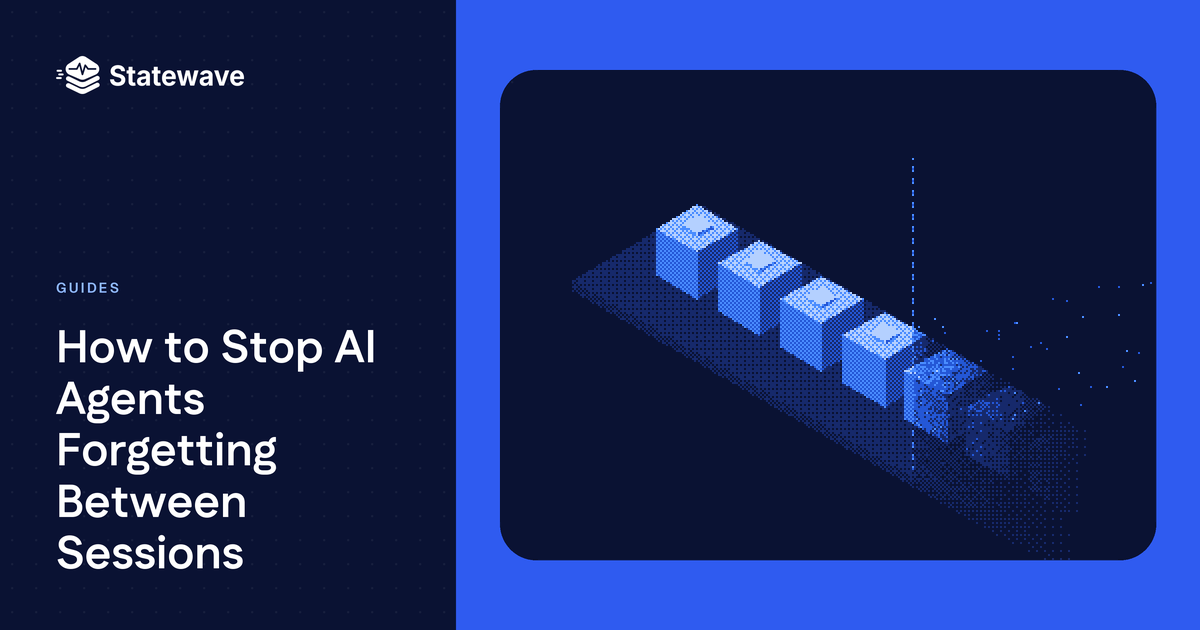
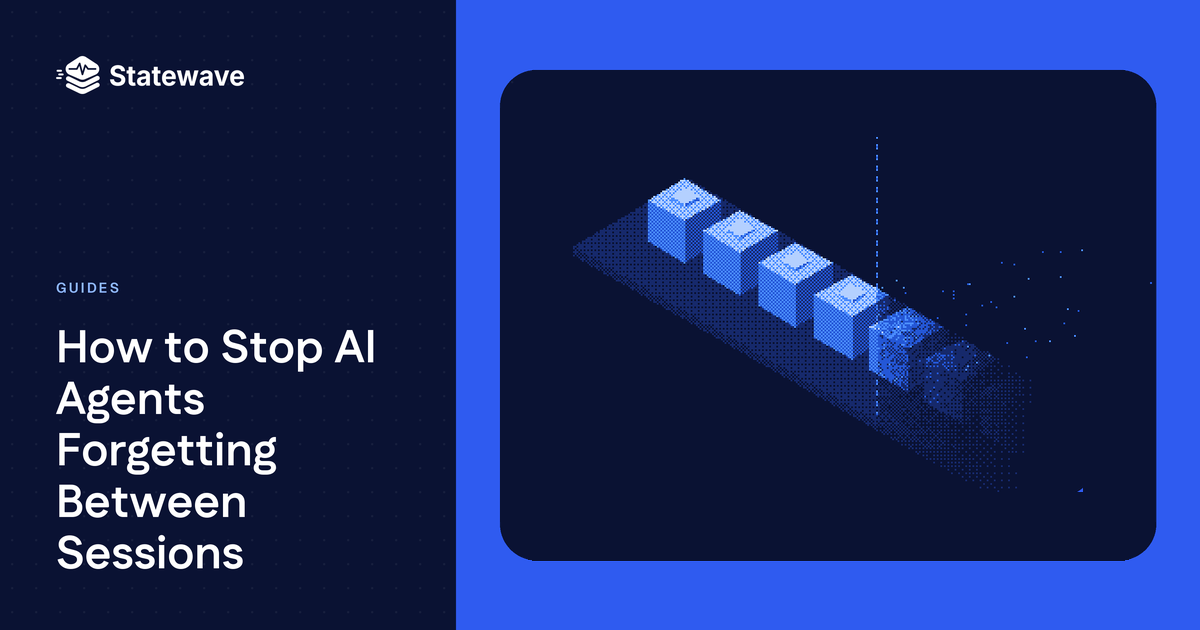
fix(blog): clean the FAQ schema answers and centre the OG art
The POST_FAQ answers for the two memory guides began with the FAQ
chevron's SVG markup, because the extraction matched <path> as <p>.
Regenerate them as plain text from the visible FAQ.

Shrink and centre the art inside both OG card panels, matching the
headers.

Changed region(s): [[0.4625, 0.2714, 0.8942, 0.8444]]

diff --git a/src/lib/blog-schema.ts b/src/lib/blog-schema.ts
@@ -626,69 +626,69 @@ export const POST_FAQ: Readonly<Record<string, readonly FaqEntry[]>> = {
     {
       question: "Is persistent memory for an AI agent the same as RAG?",
       answer:
-        "</svg>\n</div>\n</summary>\n<div className=\"px-7 pb-7\">\n<div className=\"h-px bg-theme-primary/10 mb-6\" />\n<p className=\"text-[16px] leading-8 text-theme-secondary/80 !m-0\">No. RAG augments a single inference from a mostly static corpus, while agent memory accumulates and revises state about a specific subject across many interactions. They share retrieval machinery and solve different problems. Statewave covers the distinction in AI agent memory vs RAG.",
+        "No. RAG augments a single inference from a mostly static corpus, while agent memory accumulates and revises state about a specific subject across many interactions. They share retrieval machinery and solve different problems. Statewave covers the distinction in AI agent memory vs RAG.",
     },
     {
       question: "Can I just use a vector database for agent memory?",
       answer:
-        "</svg>\n</div>\n</summary>\n<div className=\"px-7 pb-7\">\n<div className=\"h-px bg-theme-primary/10 mb-6\" />\n<p className=\"text-[16px] leading-8 text-theme-secondary/80 !m-0\">For stable reference material, yes. A plain vector store has no notion of a fact being superseded, so the January and April versions of the same fact coexist and compete on similarity. Add supersession and a time interval before you depend on it for anything that changes.",
+        "For stable reference material, yes. A plain vector store has no notion of a fact being superseded, so the January and April versions of the same fact coexist and compete on similarity. Add supersession and a time interval before you depend on it for anything that changes.",
     },
     {
       question: "How many tokens should the memory bundle use?",
       answer:
-        "</svg>\n</div>\n</summary>\n<div className=\"px-7 pb-7\">\n<div className=\"h-px bg-theme-primary/10 mb-6\" />\n<p className=\"text-[16px] leading-8 text-theme-secondary/80 !m-0\">Start in the 800 to 4,000 token range and tune by what retrieval drops. Statewave's server default is 4,000; POST /v1/context accepts max_tokens from 1 to 128,000. Its reference client sets 800 to leave room for the rest of the prompt. Set it by what you can spare, not by what the store can return.",
+        "Start in the 800 to 4,000 token range and tune by what retrieval drops. Statewave's server default is 4,000; POST /v1/context accepts max_tokens from 1 to 128,000. Its reference client sets 800 to leave room for the rest of the prompt. Set it by what you can spare, not by what the store can return.",
     },
     {
       question: "Do I need a separate database for this?",
       answer:
-        "</svg>\n</div>\n</summary>\n<div className=\"px-7 pb-7\">\n<div className=\"h-px bg-theme-primary/10 mb-6\" />\n<p className=\"text-[16px] leading-8 text-theme-secondary/80 !m-0\">Not necessarily. Statewave runs on Postgres with the pgvector extension and no separate vector store, which keeps memory under the same backup, access control and residency rules as the rest of your data. The reasoning is in self-hosted memory with Postgres and pgvector.",
+        "Not necessarily. Statewave runs on Postgres with the pgvector extension and no separate vector store, which keeps memory under the same backup, access control and residency rules as the rest of your data. The reasoning is in self-hosted memory with Postgres and pgvector.",
     },
     {
       question: "How do I delete one user's memories?",
       answer:
-        "</svg>\n</div>\n</summary>\n<div className=\"px-7 pb-7\">\n<div className=\"h-px bg-theme-primary/10 mb-6\" />\n<p className=\"text-[16px] leading-8 text-theme-secondary/80 !m-0\">Delete by subject, and check that the purge reaps derived rows as well as the obvious ones. Events and facts are the visible two. Resolutions, entity rows, health caches and supersession records also carry the subject identifier and will survive a naive delete, since most have no foreign key cascade to ride on.",
+        "Delete by subject, and check that the purge reaps derived rows as well as the obvious ones. Events and facts are the visible two. Resolutions, entity rows, health caches and supersession records also carry the subject identifier and will survive a naive delete, since most have no foreign key cascade to ride on.",
     },
     {
       question: "Should the memory write happen before or after the model replies?",
       answer:
-        "</svg>\n</div>\n</summary>\n<div className=\"px-7 pb-7\">\n<div className=\"h-px bg-theme-primary/10 mb-6\" />\n<p className=\"text-[16px] leading-8 text-theme-secondary/80 !m-0\">After, for the turn you just finished, and before the context is at risk of being lost. Writing after the reply means you capture what the agent said, which is the half that tends to go unstored.",
+        "After, for the turn you just finished, and before the context is at risk of being lost. Writing after the reply means you capture what the agent said, which is the half that tends to go unstored.",
     },
   ],
   'how-to-stop-ai-agents-forgetting-between-sessions': [
     {
       question: "Does a bigger context window remove the need for agent memory?",
       answer:
-        "</svg>\n</div>\n</summary>\n<div className=\"px-7 pb-7\">\n<div className=\"h-px bg-theme-primary/10 mb-6\" />\n<p className=\"text-[16px] leading-8 text-theme-secondary/80 !m-0\">No. A larger window holds more tokens but does not persist anything past the session, and placement inside the window changes whether the model uses a fact at all. Stanford's Lost in the Middle work found GPT-3.5-Turbo scoring below its own closed-book accuracy when the answer sat mid-context in 20- and 30-document settings.",
+        "No. A larger window holds more tokens but does not persist anything past the session, and placement inside the window changes whether the model uses a fact at all. Stanford's Lost in the Middle work found GPT-3.5-Turbo scoring below its own closed-book accuracy when the answer sat mid-context in 20- and 30-document settings.",
     },
     {
       question: "Is AI agent memory the same thing as RAG?",
       answer:
-        "</svg>\n</div>\n</summary>\n<div className=\"px-7 pb-7\">\n<div className=\"h-px bg-theme-primary/10 mb-6\" />\n<p className=\"text-[16px] leading-8 text-theme-secondary/80 !m-0\">They overlap and solve different problems. RAG augments a single inference from a mostly static corpus, while agent memory accumulates and updates state across many interactions with the same subject. Statewave covers the distinction in detail in AI agent memory vs RAG.",
+        "They overlap and solve different problems. RAG augments a single inference from a mostly static corpus, while agent memory accumulates and updates state across many interactions with the same subject. Statewave covers the distinction in detail in AI agent memory vs RAG.",
     },
     {
       question: "How many tokens should a memory bundle use?",
       answer:
-        "</svg>\n</div>\n</summary>\n<div className=\"px-7 pb-7\">\n<div className=\"h-px bg-theme-primary/10 mb-6\" />\n<p className=\"text-[16px] leading-8 text-theme-secondary/80 !m-0\">Start in the 800 to 4,000 token range and tune from there. Statewave's server default is 4,000; POST /v1/context accepts optional max_tokens from 1 to 128,000. The reference client uses 800. The right number depends on how much room the rest of your prompt needs, so set it by what you can spare rather than by what the store can return.",
+        "Start in the 800 to 4,000 token range and tune from there. Statewave's server default is 4,000; POST /v1/context accepts optional max_tokens from 1 to 128,000. The reference client uses 800. The right number depends on how much room the rest of your prompt needs, so set it by what you can spare rather than by what the store can return.",
     },
     {
       question: "What stops an agent from storing a fact that is wrong?",
       answer:
-        "</svg>\n</div>\n</summary>\n<div className=\"px-7 pb-7\">\n<div className=\"h-px bg-theme-primary/10 mb-6\" />\n<p className=\"text-[16px] leading-8 text-theme-secondary/80 !m-0\">A confidence threshold at write time and a resolution rule at compile time. Compilers that cannot determine what a statement asserts should emit no structured claim rather than guess, and contradicting claims about the same key should supersede by recency instead of coexisting.",
+        "A confidence threshold at write time and a resolution rule at compile time. Compilers that cannot determine what a statement asserts should emit no structured claim rather than guess, and contradicting claims about the same key should supersede by recency instead of coexisting.",
     },
     {
       question: "Can multiple agents share one memory store without overwriting each other?",
       answer:
-        "</svg>\n</div>\n</summary>\n<div className=\"px-7 pb-7\">\n<div className=\"h-px bg-theme-primary/10 mb-6\" />\n<p className=\"text-[16px] leading-8 text-theme-secondary/80 !m-0\">Yes, if conflicts resolve on structured claim keys rather than text similarity, and if cardinality is set server-side rather than taken from model output. Single-valued keys supersede, multi-valued keys accumulate, and the superseded memory stays on the timeline with the interval it was true for.",
+        "Yes, if conflicts resolve on structured claim keys rather than text similarity, and if cardinality is set server-side rather than taken from model output. Single-valued keys supersede, multi-valued keys accumulate, and the superseded memory stays on the timeline with the interval it was true for.",
     },
     {
       question: "How do you delete one user's memories under GDPR?",
       answer:
-        "</svg>\n</div>\n</summary>\n<div className=\"px-7 pb-7\">\n<div className=\"h-px bg-theme-primary/10 mb-6\" />\n<p className=\"text-[16px] leading-8 text-theme-secondary/80 !m-0\">Delete by subject, and make sure the purge reaps derived rows as well as the obvious ones. Episodes and memories are the visible two; resolutions, health caches, entity rows and supersession records also carry the subject ID and will outlive a naive delete, since most of them have no foreign key cascade to ride on.",
+        "Delete by subject, and make sure the purge reaps derived rows as well as the obvious ones. Episodes and memories are the visible two; resolutions, health caches, entity rows and supersession records also carry the subject ID and will outlive a naive delete, since most of them have no foreign key cascade to ride on.",
     },
     {
       question: "Do you need a vector database for agent memory?",
       answer:
-        "</svg>\n</div>\n</summary>\n<div className=\"px-7 pb-7\">\n<div className=\"h-px bg-theme-primary/10 mb-6\" />\n<p className=\"text-[16px] leading-8 text-theme-secondary/80 !m-0\">Not necessarily. Statewave runs on Postgres with the pgvector extension and no separate vector store, which keeps operational surface down and lets memory rows live under the same backup, access control and residency rules as the rest of your data.",
+        "Not necessarily. Statewave runs on Postgres with the pgvector extension and no separate vector store, which keeps operational surface down and lets memory rows live under the same backup, access control and residency rules as the rest of your data.",
     },
   ],
 } as const
